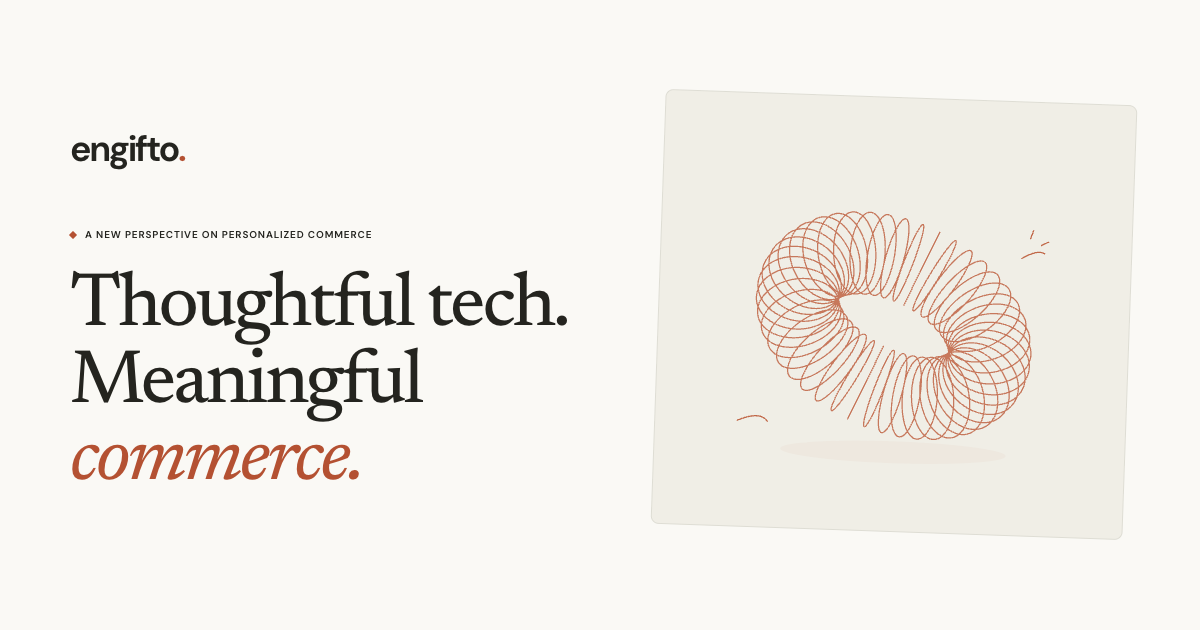
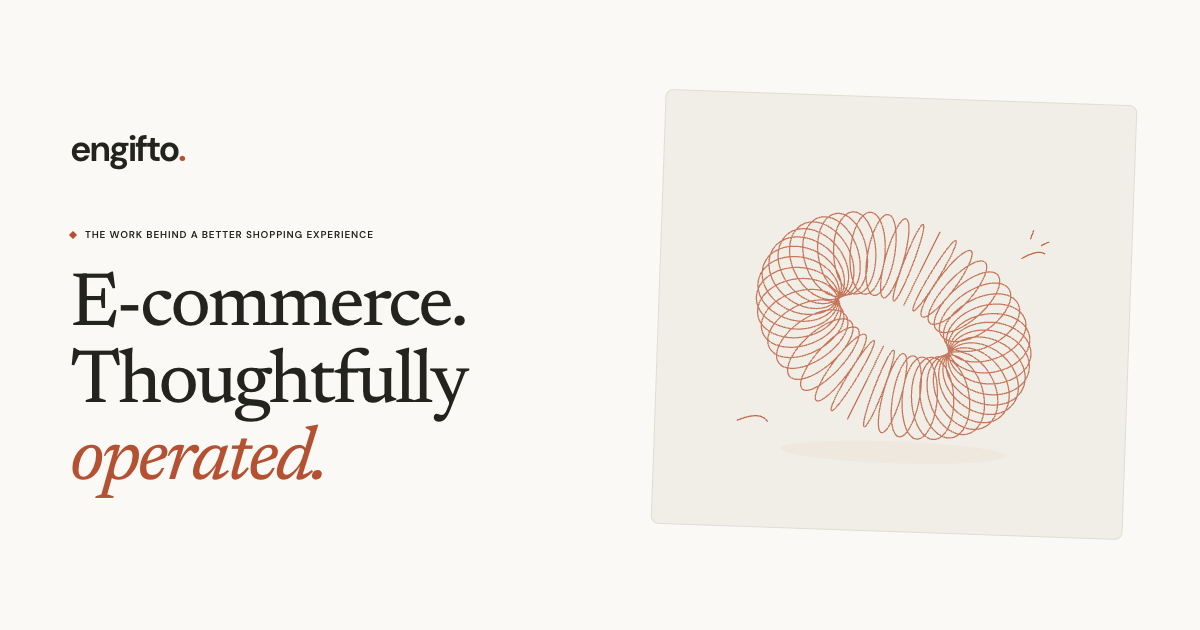
feat: position Engifto around e-commerce website operations

Changed region(s): [[0.0617, 0.4222, 0.4933, 0.7841], [0.0617, 0.3619, 0.3083, 0.3921]]

diff --git a/src/content/site.ts b/src/content/site.ts
@@ -1,5 +1,5 @@
-/** Temporary positioning adapted from GemsUnited's public POD business profile.
- * Confirm Engifto's actual product and company details before publication/submission.
+/** Positioning: e-commerce website operations, confirmed by the founder via the user.
+ * Goldfish Commerce is a reference storefront, not a source of Engifto legal details.
  * All visitor-facing copy lives here; colors live in src/styles/global.css.
  */
 export const site = {
@@ -8,8 +8,8 @@ export const site = {
   indexable: false,
   contactEmail: null as string | null, // Set only after the mailbox exists.
   seo: {
-    title: 'Engifto — Thoughtful technology for personalized commerce',
-    description: 'An early-stage concept exploring digital tools for print-on-demand teams, connecting customer insights, creative work, and everyday operations.',
+    title: 'Engifto — Thoughtful e-commerce website operations',
+    description: 'Engifto builds and operates e-commerce websites, connecting storefront management, product content, and everyday operations for a better shopping experience.',
     image: '/og.png',
   },
   labels: {
@@ -21,85 +21,85 @@ export const site = {
     contact: 'Get in touch',
     backToTop: 'Back to top',
   },
-  sections: { about: true, focus: true, approach: true, ai: true, faq: true },
+  sections: { about: true, focus: true, approach: true, ai: false, faq: true },
   navigation: [
     { section: 'about', label: 'About us' },
-    { section: 'focus', label: 'Our focus' },
+    { section: 'focus', label: 'What we do' },
     { section: 'approach', label: 'Our approach' },
   ] as const,
   hero: {
-    eyebrow: 'A new perspective on personalized commerce',
-    lines: ['Thoughtful tech.', 'Meaningful', 'commerce.'],
+    eyebrow: 'The work behind a better shopping experience',
+    lines: ['E-commerce.', 'Thoughtfully', 'operated.'],
     accentLine: 2,
-    description: 'Exploring a simpler way for print-on-demand teams to turn customer insights into products that feel personal.',
-    primary: 'Explore our direction',
+    description: 'We build and operate e-commerce websites, bringing storefronts, product content, and everyday workflows together for a better shopping experience.',
+    primary: 'Discover what we do',
     secondary: 'How we think',
-    status: 'Early-stage concept',
-    note: 'Built around people. Shaped by possibility.',
-    artCaption: 'Different threads. One connected idea.',
-    artLabel: 'The shape of things to come',
+    status: 'E-commerce website operations',
+    note: 'Clear storefronts. Connected workflows.',
+    artCaption: 'Different moving parts. One connected experience.',
+    artLabel: 'Commerce, connected',
     artIndex: 'FIG. 01 / CONNECTION',
   },
-  strip: ['Personalized products', 'Creative workflows', 'Smarter operations'],
+  strip: ['Storefront management', 'Product & content', 'Daily operations'],
   stripLabel: 'Focus areas',
   about: {
-    eyebrow: 'The idea behind Engifto',
-    title: 'Made for the people\nbehind the products.',
+    eyebrow: 'About Engifto',
+    title: 'Behind every storefront,\na connected operation.',
     paragraphs: [
-      'A meaningful gift starts long before it reaches someone’s hands. It starts with an insight, a creative spark, and a team bringing the details together.',
-      'Engifto is an early-stage concept exploring tools for that journey. Our starting point is personalized commerce: making creative work and everyday operations feel more connected.',
+      'Engifto focuses on building and operating e-commerce websites. We bring website management, product content, and day-to-day commerce workflows together, with attention to the customer experience.',
+      'A good storefront is more than a collection of products. Clear information, organized processes, and thoughtful upkeep help connect what shoppers see with the work happening behind the scenes.',
     ],
-    note: 'A considered beginning. A practical direction.',
+    note: 'Thoughtful storefronts. Practical operations.',
   },
   focus: {
-    eyebrow: 'Our focus',
-    title: 'From a spark of insight\nto something personal.',
-    description: 'Three connected areas we’re exploring for the teams behind print-on-demand and personalized products.',
-    cardLabel: 'Area of exploration',
+    eyebrow: 'What we do',
+    title: 'From the storefront\nto the work behind it.',
+    description: 'Three connected parts of running an e-commerce website, with a focus on clarity, consistency, and everyday usefulness.',
+    cardLabel: 'Our focus',
     items: [
-      { title: 'Understand what matters.', category: 'Insights & discovery', description: 'Bring customer questions, product feedback, and market signals into a clearer starting point for the next idea.', art: 'insight' },
-      { title: 'Make room for creativity.', category: 'Creative workflows', description: 'Connect research, product concepts, and content drafts so people can spend more time on the details that make a product their own.', art: 'creative' },
-      { title: 'Keep the pieces connected.', category: 'Everyday operations', description: 'Explore ways to organize product information, coordinate repetitive tasks, and give teams a shared view of what comes next.', art: 'operations' },
+      { title: 'Storefronts that work.', category: 'Website management', description: 'Build, maintain, and refine e-commerce websites, keeping navigation clear and the shopping experience easy to follow.', art: 'insight' },
+      { title: 'Products, clearly presented.', category: 'Catalog & content', description: 'Organize product details, imagery, and storefront content so shoppers can understand what they’re browsing and make informed choices.', art: 'creative' },
+      { title: 'Keep the work connected.', category: 'Everyday operations', description: 'Coordinate order-related workflows, customer communication, and routine updates to keep daily commerce operations organized.', art: 'operations' },
     ] as const,
   },
   approach: {
     eyebrow: 'Our approach',
-    title: 'Less noise.\nMore intention.',
-    description: 'Technology should make the work feel simpler—and leave room for the people doing it.',
+    title: 'Clear foundations.\nThoughtful follow-through.',
+    description: 'Running a storefront means caring for the details, from the first product page to the day-to-day work that follows.',
     items: [
-      { title: 'Start with a real need.', description: 'Listen to the workflow before designing the tool. Focus on the moments where clarity or a little less busywork would help.' },
-      { title: 'Build something useful.', description: 'Keep the first version focused. Connect one insight, one task, or one handoff rather than adding another layer of complexity.' },
-      { title: 'Learn, then improve.', description: 'Bring people into the process, invite honest feedback, and let practical experience shape the next step.' },
+      { title: 'Set up the essentials.', description: 'Start with a clear website structure, organized product information, and the practical workflows needed to run the storefront.' },
+      { title: 'Keep operations moving.', description: 'Maintain content, coordinate routine tasks, and keep customer-facing information aligned with the work behind the website.' },
+      { title: 'Review and improve.', description: 'Use storefront feedback and day-to-day experience to refine product presentation, simplify workflows, and improve the shopping journey.' },
     ],
   },
   ai: {
     eyebrow: 'Technology with intention',
     title: 'AI as a helping hand.\nPeople at the center.',
-    description: 'We’re considering language models, including Claude, for research summaries, creative drafts, and operational assistance. The goal is to support thoughtful work, with people reviewing the output.',
+    description: 'Potential uses of language models in e-commerce include product-content drafts, summaries of customer feedback, and assistance with routine workflows. Any future use would include human review.',
     status: 'Proposed direction',
     note: 'These are planned use cases, not live product features.',
     principles: ['Assist the work', 'Keep people in control', 'Make the next step clearer'],
   },
   faq: {
     eyebrow: 'A little more context',
-    title: 'Good questions.\nClear beginnings.',
+    title: 'Good questions.\nClear answers.',
     items: [
-      { question: 'What is Engifto?', answer: 'Engifto is an early-stage concept exploring digital tools for personalized commerce. Our current direction focuses on the insight, creative, and operational workflows behind print-on-demand products.' },
-      { question: 'Who is this being shaped for?', answer: 'The initial focus is teams working with personalized products and print-on-demand: people who research ideas, create product content, and coordinate day-to-day commerce workflows.' },
-      { question: 'Is there a product available today?', answer: 'Not yet. Engifto is at the concept stage. This website introduces the direction we are exploring; it is not a launched service or an interactive product demo.' },
-      { question: 'How might Engifto use AI?', answer: 'Potential uses include summarizing research, assisting with content drafts, and organizing operational information. Model selection and integration are still being evaluated. Human review would remain part of the workflow.' },
+      { question: 'What does Engifto do?', answer: 'Engifto builds and operates e-commerce websites. Our focus covers storefront management, product catalogs and content, and the everyday workflows that support the shopping experience.' },
+      { question: 'What does website operation involve?', answer: 'It brings together website upkeep, product information, content updates, order-related coordination, and customer communication. These details help keep the storefront and its day-to-day operations connected.' },
+      { question: 'Can I shop directly on this website?', answer: 'This website introduces Engifto and our work in e-commerce operations. Product catalogs, checkout, shipping, and return information belong on the relevant retail storefront.' },
+      { question: 'What guides your approach?', answer: 'We focus on clear product information, consistent website experiences, and organized workflows. We review the details regularly and make practical improvements to how the storefront works.' },
     ],
   },
   closing: {
-    eyebrow: 'Thoughtful ideas start somewhere',
-    title: 'A small beginning.\nA world of possibilities.',
-    description: 'We’re taking the first steps toward more connected, more meaningful personalized commerce.',
-    fallbackCta: 'Revisit the idea',
+    eyebrow: 'Commerce, thoughtfully connected',
+    title: 'Better storefronts.\nStronger foundations.',
+    description: 'Thoughtful website management, clear product content, and connected operations—bringing the pieces of e-commerce together.',
+    fallbackCta: 'Explore Engifto',
     contactCta: 'Start a conversation',
   },
   footer: {
-    tagline: 'A thoughtful beginning for personalized commerce.',
-    status: 'Concept stage · More to come',
+    tagline: 'Thoughtful operations for e-commerce websites.',
+    status: 'Storefronts · Content · Operations',
     copyright: 'Engifto',
   },
   notFound: {

diff --git a/tests/landing.spec.ts b/tests/landing.spec.ts
@@ -1,7 +1,7 @@
 import { expect, test } from '@playwright/test';
 import { site, navigation } from '../src/content/site';
 
-test('visitors can explore the concept without broken links or pretend contact details', async ({ page }) => {
+test('visitors can explore the company website without broken links or pretend contact details', async ({ page }) => {
   const errors: string[] = [];
   page.on('pageerror', error => errors.push(error.message));
   await page.goto('/');

diff --git a/docs/claude-startups.md b/docs/claude-startups.md
@@ -19,7 +19,7 @@ Trang hiện công bố **$1,000 Claude API credits**, một năm Claude Team ch
 
 ## Nên có trên website — khuyến nghị, không phải tiêu chí bắt buộc được công bố
 
-- Một mô tả cụ thể: sản phẩm giải quyết vấn đề gì, cho ai.
+- Một mô tả cụ thể: hoạt động kinh doanh hoặc sản phẩm giải quyết vấn đề gì, cho ai.
 - Use case thực tế hoặc demo nếu đã có; ghi đúng stage nếu chưa launch.
 - Thông tin nhận diện doanh nghiệp/đội ngũ đủ để đối chiếu, chỉ dùng thông tin đã xác nhận.
 - Liên hệ hoạt động và domain truy cập công khai qua HTTPS.
@@ -28,25 +28,27 @@ Trang hiện công bố **$1,000 Claude API credits**, một năm Claude Team ch
 
 ## Thông tin cần sếp xác nhận
 
-- Engifto là sản phẩm/thương hiệu của pháp nhân nào? Quan hệ với GemsUnited là gì?
+- Engifto thuộc pháp nhân nào? Quan hệ với GemsUnited hoặc Goldfish Commerce là gì, nếu có?
 - Ngày thành lập của công ty nộp hồ sơ; tình trạng và ngày funding nếu có. Domain mới không chứng minh công ty mới thành lập.
-- Tên sản phẩm, khách hàng mục tiêu, tính năng đã có, roadmap dự định làm.
+- Phạm vi website thương mại điện tử đang vận hành, khách hàng/thị trường thực tế và kế hoạch phát triển.
 - Claude sẽ hỗ trợ task nào? Đã tích hợp hay chỉ đang lên kế hoạch?
 - Tên người đăng ký, email domain hoạt động, tài khoản Console và thông tin đội ngũ thật.
 - Traction và funding chỉ ghi khi có dữ liệu thật.
 
 Nếu hồ sơ thuộc GemsUnited, thông tin pháp nhân phải là của GemsUnited; không tạo một công ty mới trên giấy chỉ vì dùng domain Engifto.
 
-## Nguồn nội dung tạm cho landing
+## Định hướng đã được sếp xác nhận
 
-[GemsUnited homepage](https://www.gemsunited.com/) và [About](https://www.gemsunited.com/about-us) mô tả hoạt động B2B POD, creative, fulfillment, growth, tools/data/automation. Từ đó bản Engifto tạm chọn ba hướng: **insights, creative workflows, operations**. Định hướng dùng AI là đề xuất cho khung, **không phải thông tin được xác nhận từ GemsUnited**.
+Sếp yêu cầu giới thiệu chung về **vận hành e-commerce websites**, tham khảo [Goldfish Commerce](https://www.goldfishcommerce.com/). Trang tham khảo là storefront bán đồ bếp, có catalog, checkout, thông tin shipping/returns và liên hệ doanh nghiệp. Engifto dùng cấu trúc hoạt động thương mại điện tử làm nền, với ba phần: **website management, catalog/content, everyday operations**.
 
-Những dữ kiện **không chuyển sang Engifto**: năm thành lập 2025, hơn 20 quốc gia, mục tiêu top 5, SLA dispatch, địa chỉ Đà Nẵng, email HR, danh sách khách hàng hay thành tích. Sếp có thể thay hoàn toàn định hướng trong `src/content/site.ts`.
+Không gán sang Engifto danh mục đồ bếp, số sản phẩm, ratings, testimonials, tên Goldfish Commerce LLC, địa chỉ Mỹ, hotline hay chính sách shipping/returns của trang tham khảo. Website không tuyên bố Engifto sở hữu Goldfish hoặc có quan hệ pháp nhân cụ thể. Nguồn GemsUnited/POD ở bản trước đã được thay thế bởi định hướng e-commerce tổng quát.
+
+Phần AI được ẩn trên landing vì chưa có thông tin xác nhận. Nếu dùng Claude khi đăng ký, mô tả công việc thực tế như viết nội dung sản phẩm, hỗ trợ vận hành hoặc phát triển website chỉ khi đó đúng với hoạt động/kế hoạch của doanh nghiệp. Không cần biến website thành một sản phẩm AI chỉ để nộp chương trình.
 
 ## Trước khi nộp
 
 - [ ] Xác nhận eligibility của pháp nhân và đối chiếu thông tin trên website/hồ sơ.
-- [ ] Hoàn thiện copy sản phẩm thật; giữ stage và kế hoạch AI chính xác.
+- [ ] Đối chiếu mô tả hoạt động e-commerce với doanh nghiệp thật; xác nhận cách dùng Claude nếu hồ sơ có đề cập.
 - [ ] Kích hoạt domain, cấu hình HTTPS và mailbox `@engifto.com`.
 - [ ] Deploy production, truy cập được không cần đăng nhập/Vercel protection.
 - [ ] Chuyển `indexable` khi nội dung đã sẵn sàng; indexing không được trang chương trình nêu là điều kiện bắt buộc.

diff --git a/README.md b/README.md
@@ -1,6 +1,6 @@
 # Engifto
 
-Landing page tiếng Anh, lấy cảm hứng thị giác từ Claude, xây bằng **Astro + TypeScript + CSS**. Web tĩnh, font tự host, không cần backend. Nội dung tạm theo hướng công nghệ cho **personalized commerce / print-on-demand**, tham khảo GemsUnited.
+Landing page tiếng Anh, lấy cảm hứng thị giác từ Claude, xây bằng **Astro + TypeScript + CSS**. Web tĩnh, font tự host, không cần backend. Nội dung theo hướng **xây dựng và vận hành website thương mại điện tử**, được sếp xác nhận qua người dùng, tham khảo mô hình storefront của Goldfish Commerce.
 
 ## Chạy local
 
@@ -30,7 +30,7 @@ Chỉnh **`src/content/site.ts`**:
 | Giới thiệu công ty/sản phẩm | `about` |
 | Sản phẩm, dịch vụ hoặc use case | `focus.items` |
 | Quy trình | `approach` |
-| Kế hoạch ứng dụng AI | `ai` |
+| Phần AI tùy chọn, hiện đang ẩn | `ai`, `sections.ai` |
 | Câu hỏi thường gặp | `faq.items` |
 | Liên hệ thật | `contactEmail` |
 | Bật/tắt từng section | `sections` |
@@ -74,6 +74,8 @@ Playwright dùng Google Chrome local (`channel: 'chrome'`), không cần tác đ
 
 ## Lưu ý nội dung
 
-Đây là bản khung hoàn chỉnh về UI, **chưa phải hồ sơ công ty đã xác thực hay sản phẩm đang chạy**. Nội dung hiện tự nhận là early-stage concept, AI là proposed direction. GemsUnited là nguồn tham khảo ngành; không có tuyên bố Engifto là pháp nhân mới, công ty con hay thương hiệu của GemsUnited. Không dùng số liệu, năm thành lập, địa chỉ, email HR, SLA, ảnh nhân viên hay logo của GemsUnited.
+Website giới thiệu Engifto theo định hướng đã chốt: **e-commerce website operations**, gồm quản lý storefront, catalog/content và vận hành hằng ngày. Nội dung không còn định vị là concept POD. Phần AI được ẩn mặc định vì cách dùng thực tế chưa được xác nhận; chỉ bật lại khi có thông tin phù hợp.
+
+Goldfish Commerce là website tham khảo, không phải nguồn pháp nhân hay thông tin liên hệ của Engifto. Không chuyển danh mục đồ bếp, sản phẩm/giá, ratings, tên LLC, địa chỉ Mỹ, hotline, điều kiện shipping/returns hay testimonials của Goldfish sang Engifto. Email liên hệ và thông tin pháp nhân vẫn cần dữ liệu thật trước khi xuất bản hoặc nộp hồ sơ.
 
 Xem **[checklist Claude Startups](docs/claude-startups.md)** để chuẩn bị website và hồ sơ thật. Không có đăng ký chương trình, tích hợp Claude API hay deploy được thực hiện trong repo này.

diff --git a/docs/verification.md b/docs/verification.md
@@ -24,6 +24,16 @@ Performance: local variable fonts use weight-only files instead of full optical-
 
 ## Limits
 
-Vercel deployment, DNS, HTTPS on the real domain, email mailbox and Claude Console application have not been performed. Engifto's business/legal identity and product remain provisional. The supplied GemsUnited site is a source for industry context, not proof of Engifto's eligibility, corporate affiliation or AI integration. The authenticated application form was not inspected.
+Vercel deployment, DNS, HTTPS on the real domain, email mailbox and Claude Console application have not been performed. The founder has now confirmed e-commerce website operations as the business direction. Legal identity, specific storefront ownership and actual Claude usage remain unverified. Reference sites are not proof of Engifto's eligibility, corporate affiliation or AI integration. The authenticated application form was not inspected.
 
 Browser MCP instances were busy with other profiles; tests and screenshots used independently launched Chrome instances without altering those profiles.
+
+## Founder-direction update — 2026-10-08
+
+- Replaced POD/concept positioning with general e-commerce website operations, following the user's supplied founder message and Goldfish Commerce reference.
+- Updated hero, intro, three operational areas, approach, FAQ, footer, metadata and social PNG. Optional AI section is hidden. No Goldfish legal/contact data, kitchen catalog, ratings or shipping policies are reused.
+- `npm run check`: 12 files, zero errors/warnings/hints.
+- `npm test`: eight tests passed on the updated local site. Responsive widths and keyboard/no-JS navigation still pass.
+- `npm run build`: successful static output, including the updated 1200 × 630 PNG. The first concurrent check/build attempt hit a shared Vite dependency-cache rename conflict; running the build sequentially resolved it without source changes. Run Astro check/build sequentially when caches need optimization.
+- Browser check confirms current metadata, no visible POD/concept text, no visible AI section and no desktop overflow. Updated desktop/mobile screenshots and the social card were inspected.
+- Review: the update is scoped to editable copy, the AI visibility switch, generated social artwork and documentation; existing layout, styling and interactions are preserved.

diff --git a/docs/design.md b/docs/design.md
@@ -1,7 +1,7 @@
 # Engifto landing page — 2026-10-08
 
 ## Scope
-A complete English landing page, built before the founder confirms the business direction. It must be easy to turn into a company or product website and deploy to Vercel. At the user's request, the current personalized-commerce/POD positioning is adapted from GemsUnited's public business profile. Copy remains an openly stated early concept; company-specific achievements are not attributed to Engifto. AI use cases are explicitly proposed.
+A complete English company landing page, with editable copy and Vercel static deployment. The founder confirmed general e-commerce website operations via the user's supplied message, citing Goldfish Commerce as a reference. Positioning covers storefront management, product catalogs/content, and day-to-day operations. The earlier POD/concept positioning is superseded. Goldfish's legal details, catalog, prices, testimonials, ratings and shipping policies are not attributed to Engifto. The optional AI section is hidden until an actual use case is confirmed.
 
 ## Design
 UI/UX Pro Max informs an editorial, spacious layout. Claude-inspired warm ivory, charcoal, terracotta, large Newsreader serif headings, DM Sans body copy. Use an original Engifto wordmark and vector illustration; do not copy Claude assets, proprietary fonts, logos, or affiliation claims. Light theme only. Strong focus states, semantic landmarks, reduced-motion support and responsive layouts.

diff --git a/design-system/engifto/pages/landing.md b/design-system/engifto/pages/landing.md
@@ -9,3 +9,4 @@ User preference: Claude-inspired appearance, keeping Engifto identity.
 - Hero art: original terracotta wire sculpture in SVG, restrained paper grid.
 - One light theme, responsive down to 375px, native FAQ details, visible keyboard focus.
 - Only real data after confirmation. No testimonials, invented metrics, customers, contact email or working-AI claims.
+- Positioning: general e-commerce website operations, following founder direction and the Goldfish Commerce reference. Keep the current Claude-inspired appearance; hide the optional AI section. No POD/concept language in visible copy.
